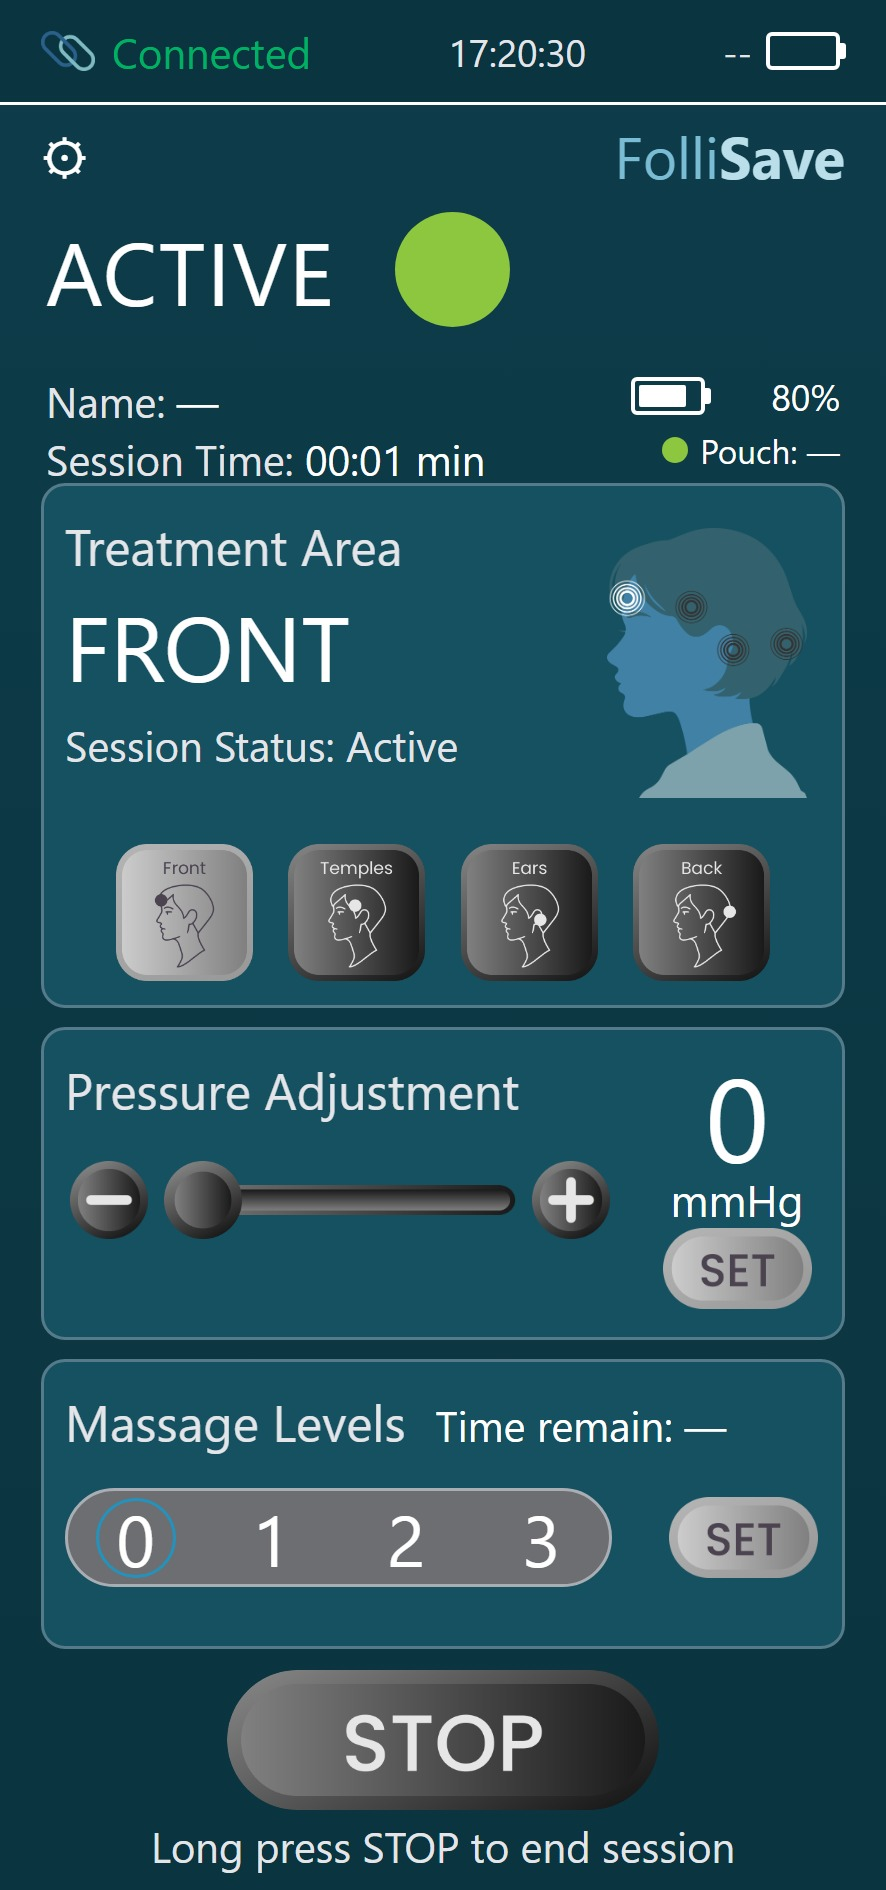
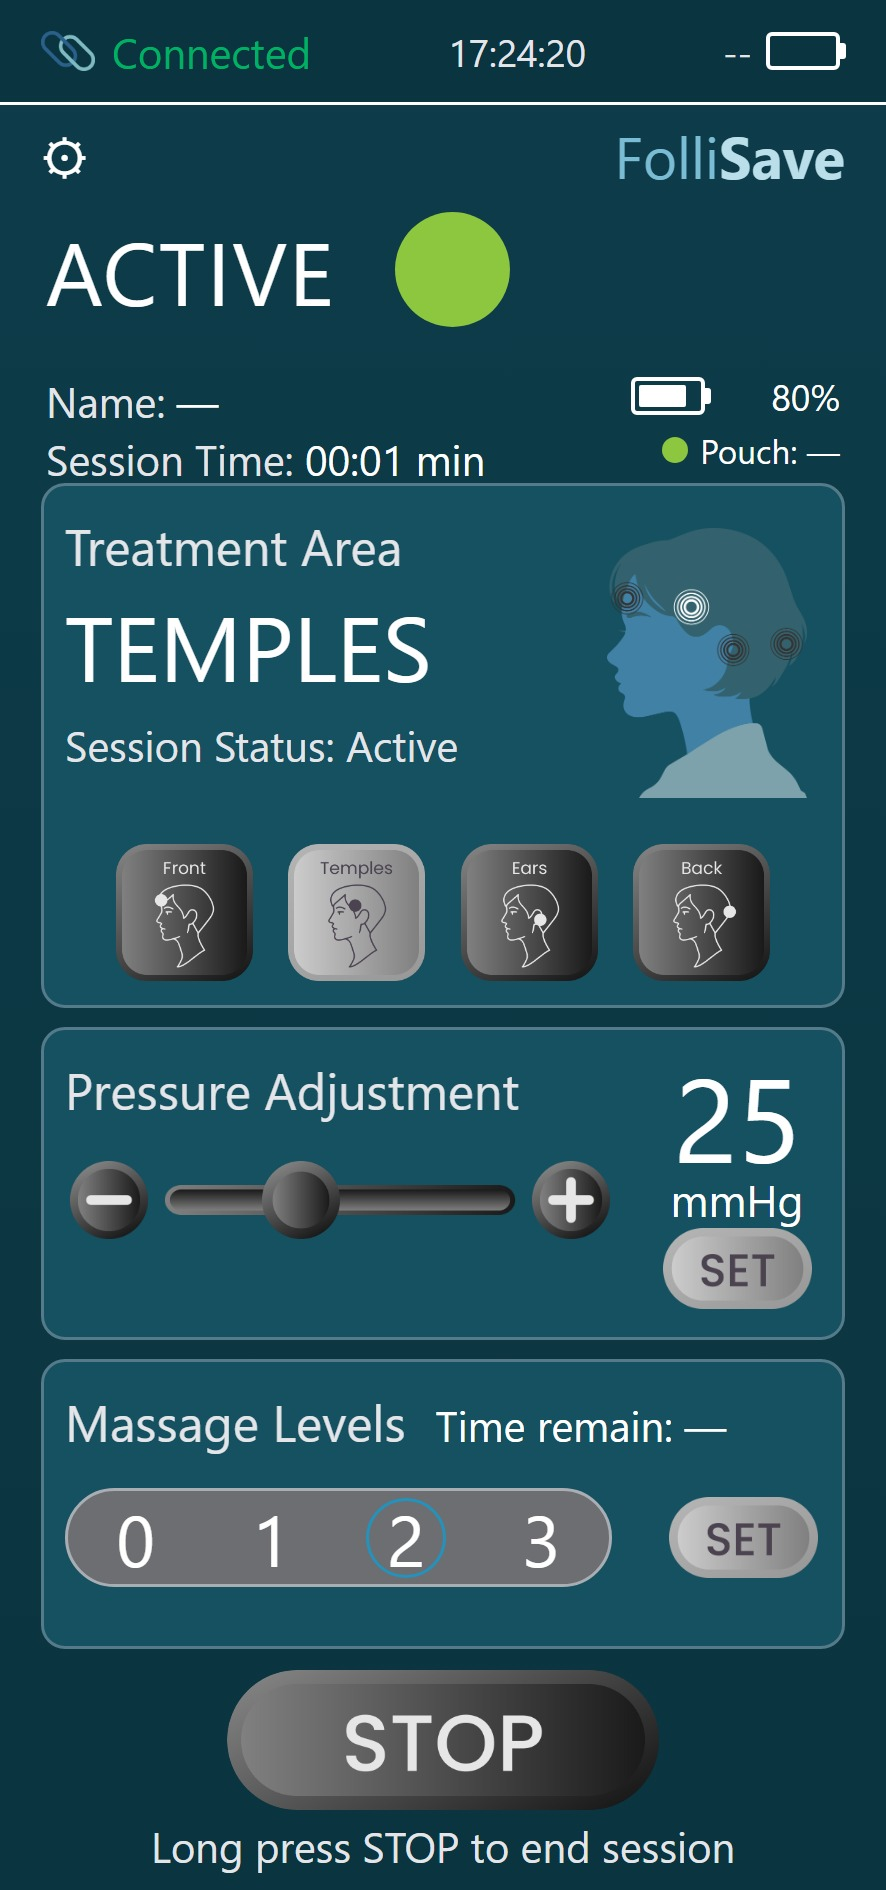
Record the console redesign and its open gaps
REDESIGN_STATUS.md still listed FOLLI_CONSOLE as not started, one commit
after it was finished — exactly the drift the file exists to prevent.

Adds the comp-to-screen mapping, the four measured scores, the five fields
the BLE protocol cannot supply, the four places the app deliberately departs
from the comps, and the font gap.

Also fixes the capture script: each shot now selects the zone its own comp
draws. It was taking the active shot with FRONT selected against PAGE_01,
which draws TEMPLE, so the comparison was scoring the zone selection rather
than the layout. Correcting it moves PAGE_01 from 82.73% to 84.52% without
a line of screen code changing.

Claude-Session: https://claude.ai/code/session_01TKYmKaqnXyRzKLGwTcuuA1

diff --git a/FOLLI_CONSOLE/tools/capture_reference.py b/FOLLI_CONSOLE/tools/capture_reference.py
@@ -43,13 +43,19 @@ def capture_all(page, out_dir: Path) -> list[tuple[str, Path]]:
         page.screenshot(path=str(path), type="jpeg", quality=QUALITY)
         shots.append((name, path))
 
-    # PAGE_02 — pending, before START. The comp draws FRONT selected; the app
-    # boots on Temples, so select Front to make the two directly comparable.
+    # Each comp draws a different zone, so each shot selects the zone its comp
+    # uses. Otherwise the two differ on the highlighted tile, the zone name and
+    # every pressure readout, and the comparison measures the selection rather
+    # than the layout.
+
+    # PAGE_02 — pending, before START, FRONT selected.
     page.get_by_test_id("zone-1").click()
     page.wait_for_timeout(600)
     shoot("01-console-pending")
 
-    # PAGE_01 — a running session.
+    # PAGE_01 — a running session, TEMPLE selected.
+    page.get_by_test_id("zone-2").click()
+    page.wait_for_timeout(300)
     page.get_by_test_id("start-button").click()
     page.wait_for_timeout(1200)
     shoot("02-console-active")

diff --git a/POUCH_APP/REDESIGN_STATUS.md b/POUCH_APP/REDESIGN_STATUS.md
@@ -79,11 +79,58 @@ Not a defect, recorded because it looks like one: every page's title band reads
 `POUCH DIAGNOSTICS OVERVIEW v2.4.3`, including home, users and admin. That is
 what the comps print on all four pages, so the constant title is correct.
 
-## Not started
+## FOLLI_CONSOLE — done
 
-- **FOLLI_CONSOLE** — the four `console_ui_05` pages. Different codebase and
-  language (React Native / Expo). Must keep 41 jest tests and the expo bundle
-  green.
+The four `console_ui_05` comps map onto the three screens that already existed,
+not onto four new ones. Restyled in place; there is no second set of screens.
+
+| Comp | Screen | strict | perceptual |
+|---|---|---|---|
+| PAGE_02 pending | `ConsoleScreen` | 84.49% | 80.48% |
+| PAGE_01 active | `ConsoleScreen` | 84.52% | 80.58% |
+| PAGE_03 admin gate | `AdminGateScreen` | 94.12% | 91.90% |
+| PAGE_04 control panel | `ExitScreen` | 95.36% | 93.43% |
+
+Shots in `VISUAL_REFERENCE/console/v2`, taken by
+`FOLLI_CONSOLE/tools/capture_reference.py` against the exported web bundle. Each
+shot selects the zone its comp draws, or the comparison measures the selection
+rather than the layout.
+
+The two console-screen scores are lower than the other two almost entirely
+because of the no-data fields below, not because of layout — five text fields
+render an em dash where the comp prints content, and the head artwork is tinted
+differently in the comp than in the delivered asset. Neither is closable here.
+
+**Not in the protocol, so rendered as no-data.** The BLE contract is 4-byte
+commands and 6-byte telemetry, and the POUCH_APP link that would carry patient
+data does not exist yet. Patient name, remaining time, pouch ID, the massage
+countdown and the tablet's own battery all show `—`. The single battery byte in
+telemetry is the pouch's, not the tablet's, so it is not reused for both.
+
+**Deliberate deviations from the comps.**
+
+1. The comp's `Remaining Time` is labelled `Session Time`, because only elapsed
+   time reaches the console. Printing elapsed under a "remaining" label would be
+   wrong on a medical device.
+2. PAGE_04's artwork reads "Contol Panel" and "Press EXIT unlock and close".
+   Both are typos in the design file; the app sets correct English.
+3. Connection state and session state are independent. The comps pair
+   Connected/ACTIVE and Disconnected/PENDING, but that is a coincidence of which
+   two states each page drew.
+4. The zone heading is `TEMPLES`, matching the button artwork and the protocol's
+   label table; the comp's heading says `TEMPLE`.
+
+**Open.** No font is bundled — the comps set Source Sans throughout plus Poppins
+for the zone captions and massage digits, and the console renders in the
+platform font. Sizes are right, letterforms are not, and the wider metrics are
+why text that fits one line in the comp can wrap. `expo-font` with
+`@expo-google-fonts/source-sans-3` and `/poppins` is the fix, mirroring what
+POUCH_APP already does with `@fontsource-variable/source-sans-3`.
+
+The console draws the female profile unconditionally. Both sets are wired up;
+nothing tells it which to use.
+
+Both suites stay green: 41 jest tests and a clean `expo export`.
 
 ## No UI at all
 
